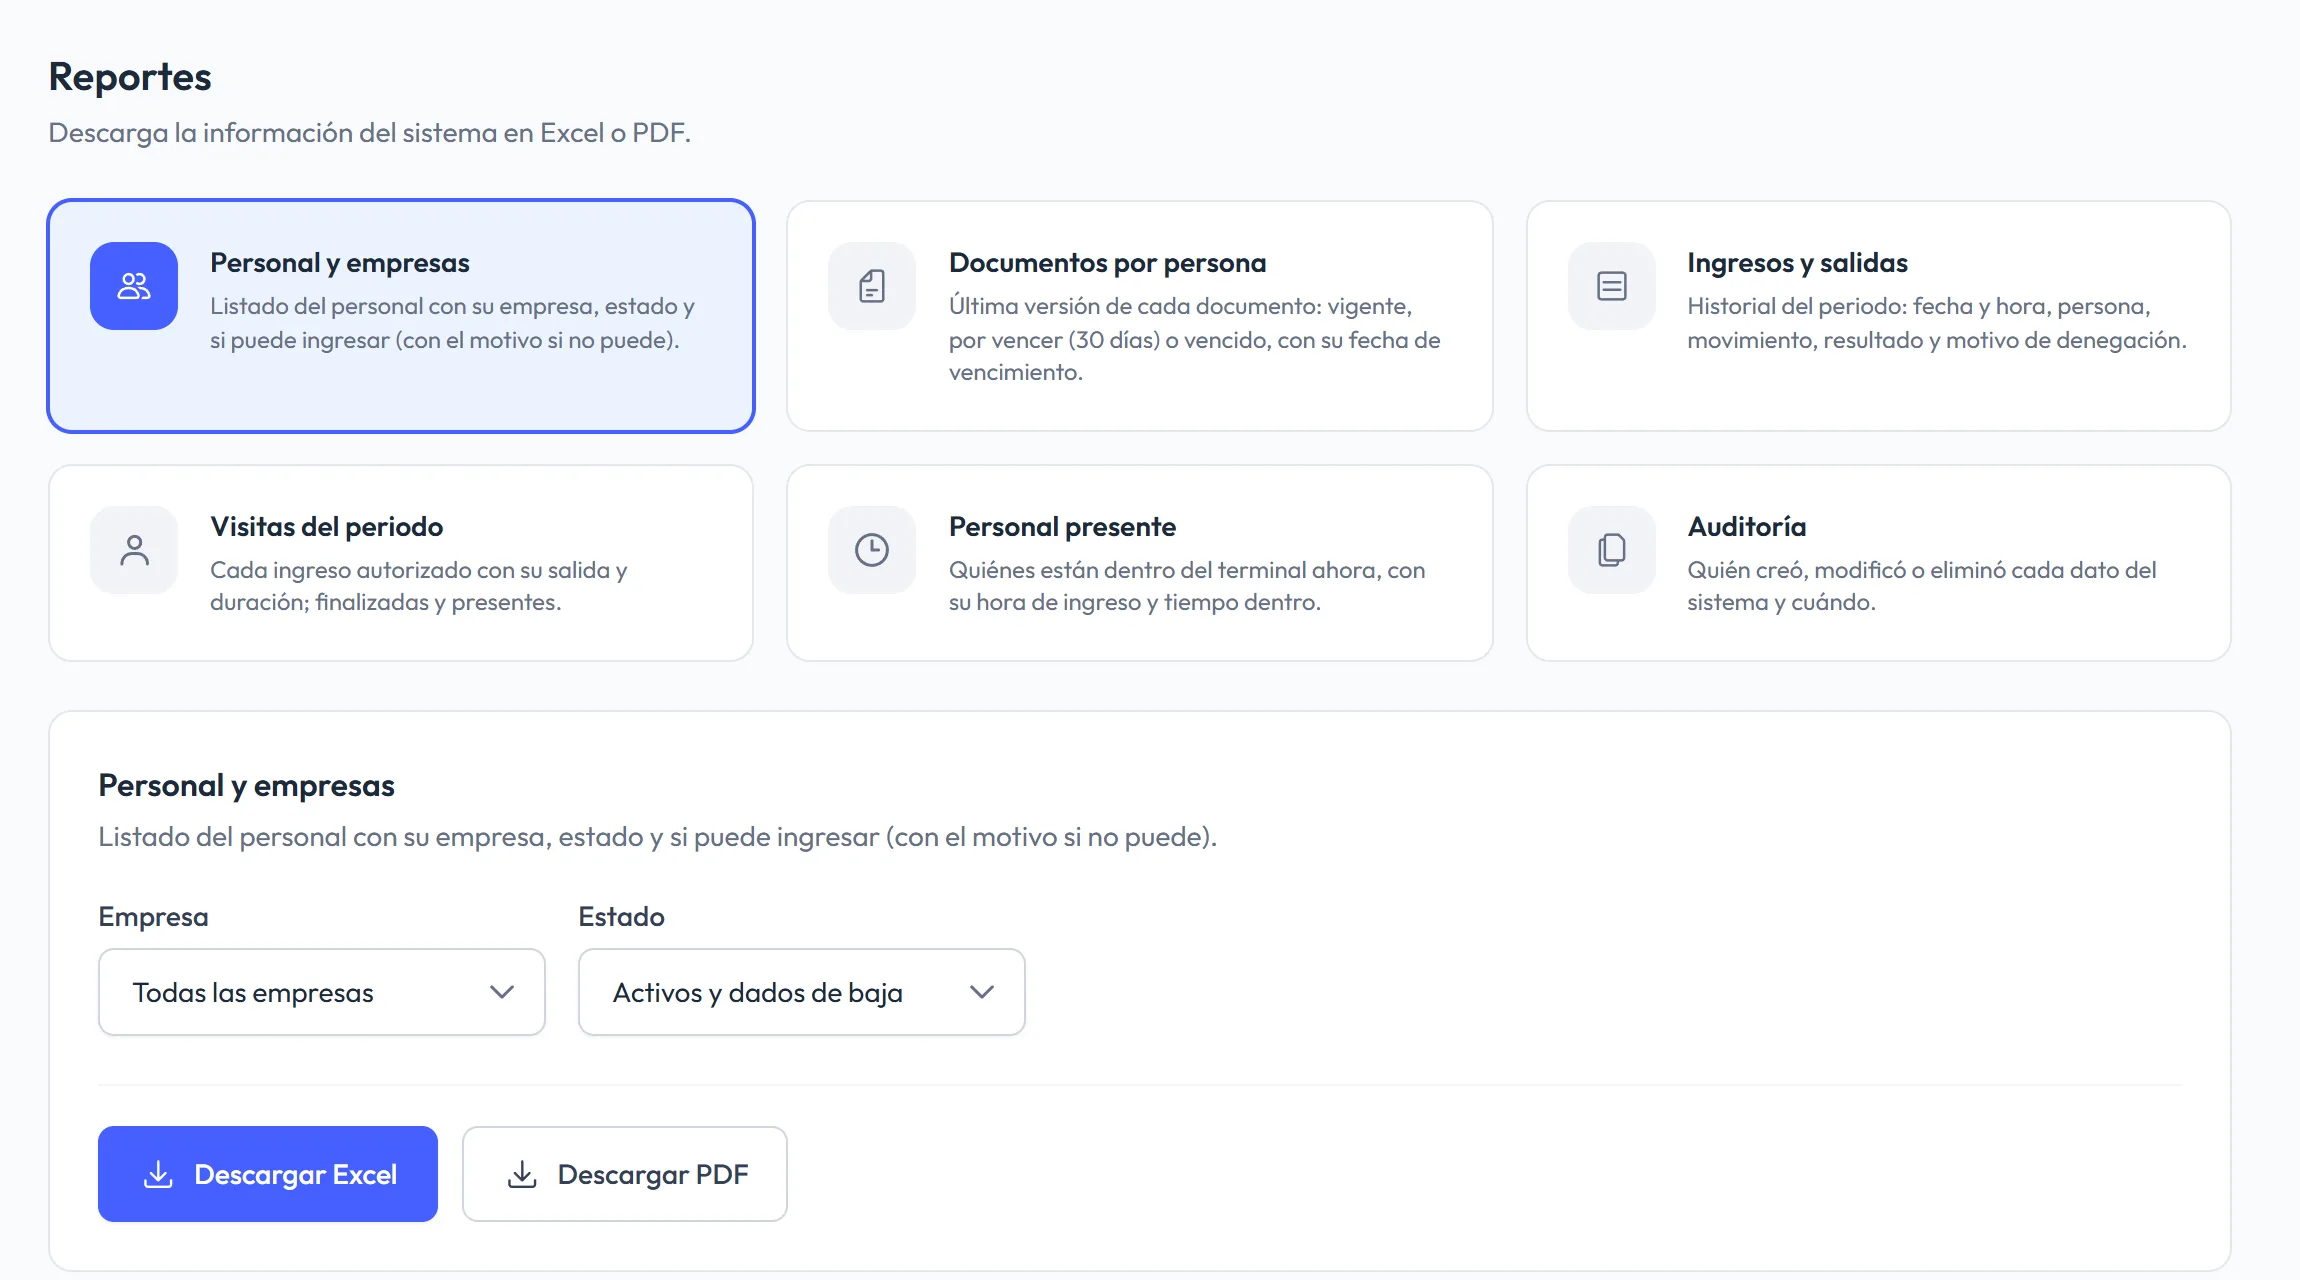
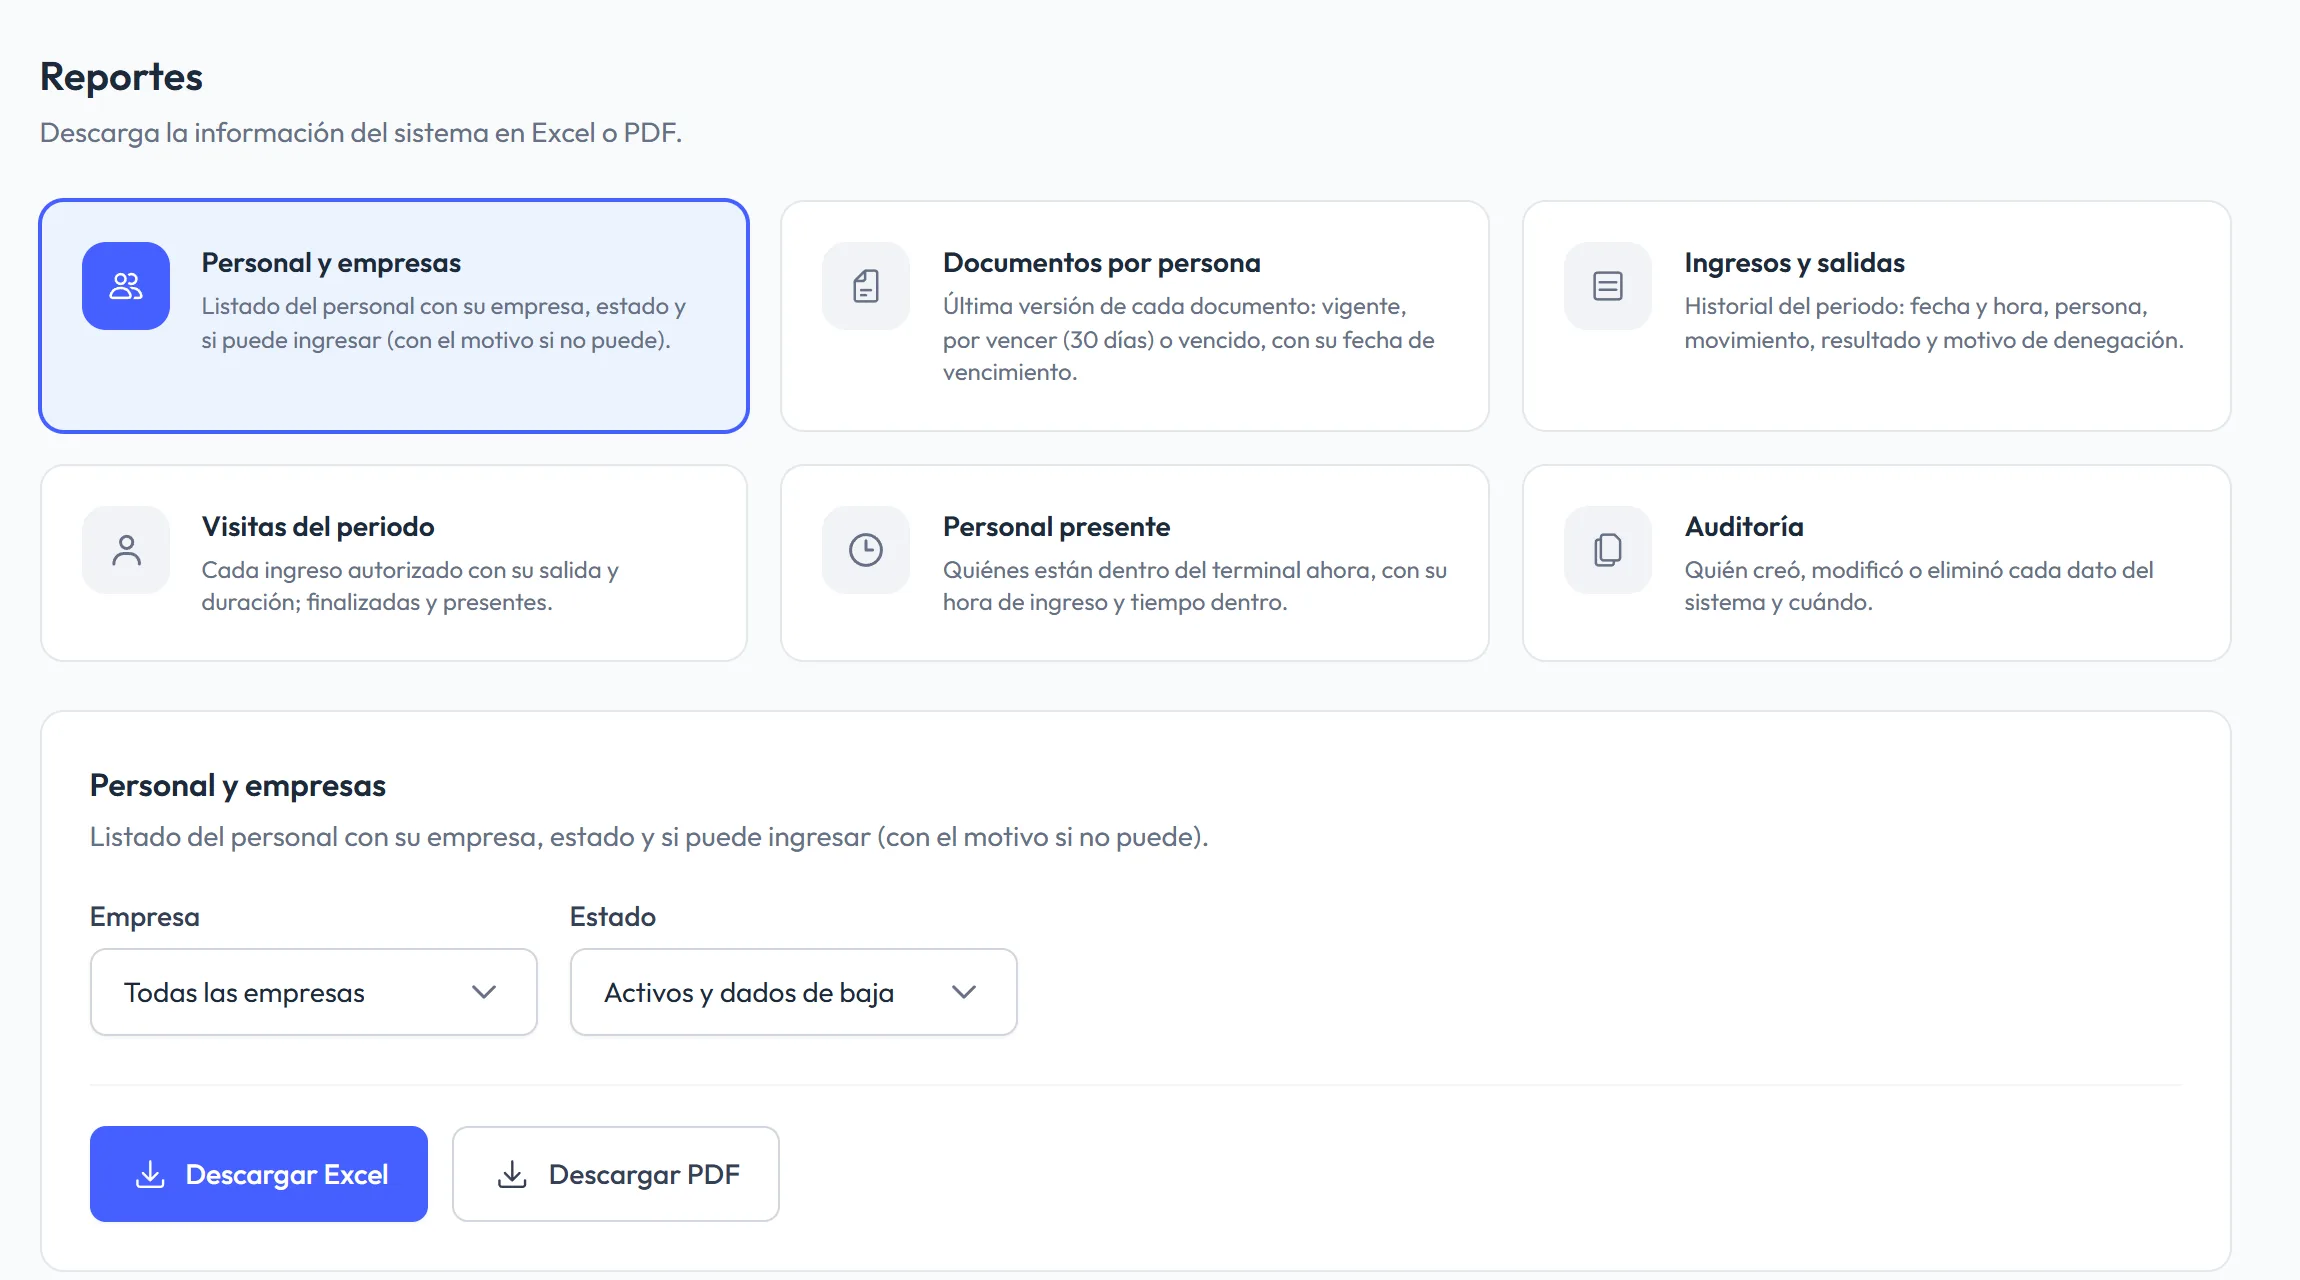
v3 terminada documentacion

diff --git a/PROGRESO.md b/PROGRESO.md
@@ -522,3 +522,4 @@ Leyenda: `[ ]` pendiente · `[~]` en progreso · `[x]` hecho
 - **2026-10-10** — **Animaciones unificadas:** desplegables, calendario y menú del usuario se abren en 150 ms y se cierran en 100 ms (cerrar un poco más rápido que abrir), con el mismo fundido y leve desplazamiento (`--animate-panel-entra` / `--animate-panel-sale` en `globals.css`); el menú del usuario antes aparecía y desaparecía de golpe. Las ventanas (modales) entran con fundido + leve desplazamiento y escala; al cerrar siguen siendo instantáneas a propósito (varias limpian su contenido al cerrarse y una salida animada mostraría un instante "Cargando…").
 - **2026-10-10** — **Desplegado en AWS** (desde la copia de trabajo, sin commit, convertida a LF): aviso de fallas para administrador y vigilancia (`/panel/avisos`), revisión diaria configurable desde el portal, sincronización sin esperar a equipos desconectados, desplegables y calendario nuevos, animaciones, manual con capturas, puntos que laten en Sistema y APIs y demás ajustes de la jornada. Respaldo previo `antes-de-actualizar-20261010-0925.sql.gz`; sin migraciones pendientes; mismos datos; portal, API, capturas del manual y la ruta de avisos responden.
 - **2026-10-10** — **Manual rediseñado con gráficos en todas las secciones** (mismo estilo que la introducción): Personal y documentos (condiciones para ingresar, pasos del registro con íconos, tarjetas de Ver/Renovar/Eliminar/Agregar, baja y reactivación), Panel de vigilancia (cómo se valida un ingreso en 4 pasos, qué significa cada fila —En espera, En cola, Autorizado, Denegado—, avisos), Dashboard (tarjetas de indicadores y nota sobre la presencia), Reportes (tarjetas de los 6 reportes, pasos del ZIP, Excel o PDF), Tu cuenta y contraseña (pasos), Auditoría (buscar y filtrar) y Sistema y APIs (qué muestra cada tarjeta y pasos de la sincronización). Sin perder información; piezas reutilizables en `manual/Figuras.tsx` (Subtitulo, Condiciones, PasosTarea, Acciones, Nota e íconos de línea). Introducción y textos visibles del portal sin la palabra "garita".
+- **2026-10-10** — Capturas del manual regeneradas con el estado actual del portal (puntos que laten, aviso de fallas nuevo, desplegables, mensajes de la ficha, revisión diaria). La de Sistema y APIs ahora llega hasta las tarjetas de Equipos de acceso (`alto: 1010`).
